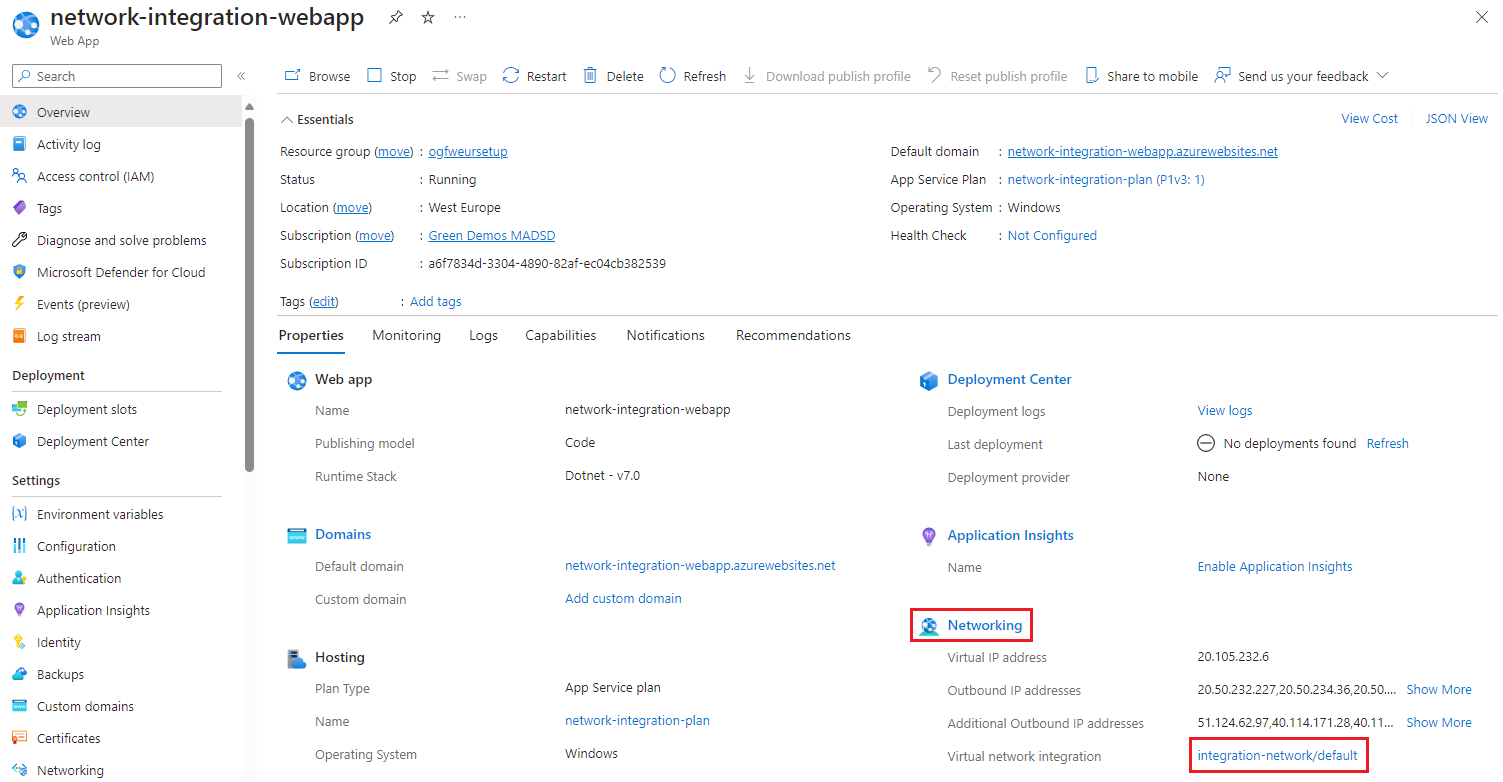
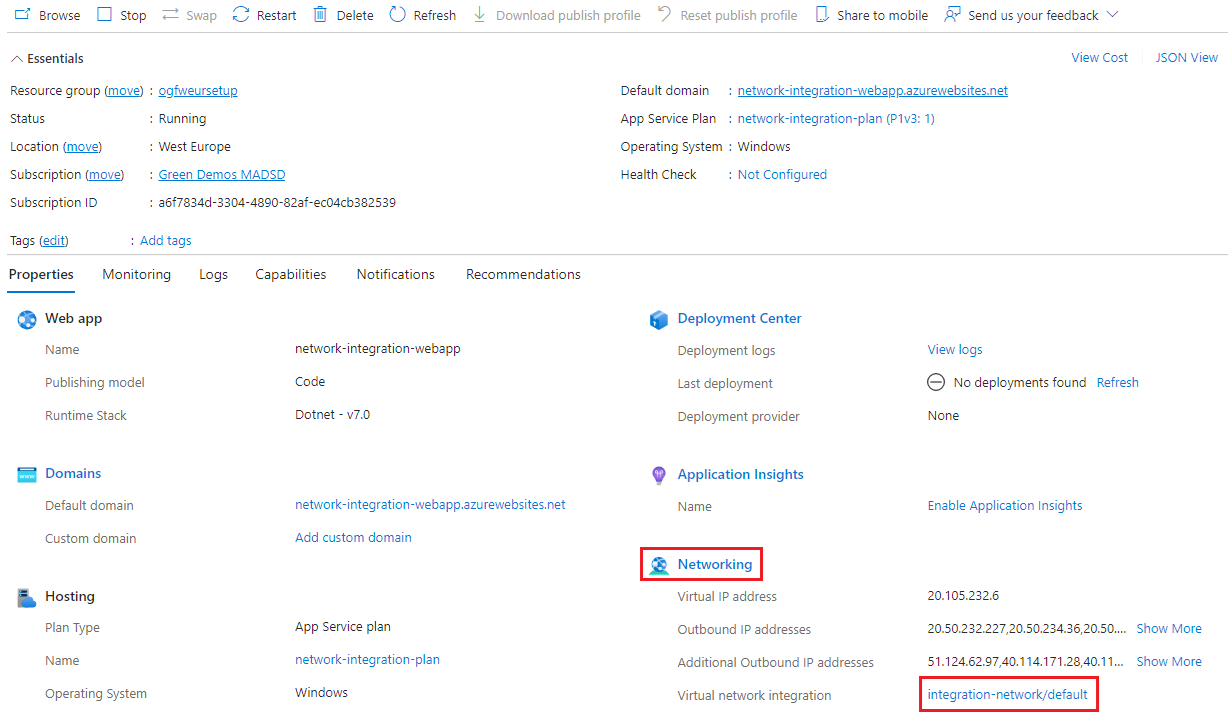
First sections

diff --git a/_posts/2024-02-01-Networking-UX-improvements.md b/_posts/2024-02-01-Networking-UX-improvements.md
@@ -15,7 +15,21 @@ On the overview page that you land on when opening an App Service app in the Azu
 
 ## Networking hub
 
+The networking hub or networking landing page is where you can get an overview of your network configuration. We gave this page an overhaul to align it with similar pages and include the essential information.
+
+![Azure portal networking hub]({{site.baseurl}}/media/2024/02/networking-hub.png)
+
+These improvements are worth mentioning:
+
+* Public network access/Access restrictions. It will show you the current setting and if you have restrictions configured. We also added visibility of the special configuration of `null` where it uses implicit/default behavior.
+* Private endpoint IP shows up in inbound addresses.
+* Status of NAT gateway, NSG and UDR configured on integration subnet and links for fast inspection/configuration.
+
 ## Domain names
+
+Domain names are now visible in the overview page and you will see both default and custom domain name. We also added a link for easy configuration of custom domain.
+
+![Azure portal domain names]({{site.baseurl}}/media/2024/02/domains.png)
 
 ## Virtual network integration
 
